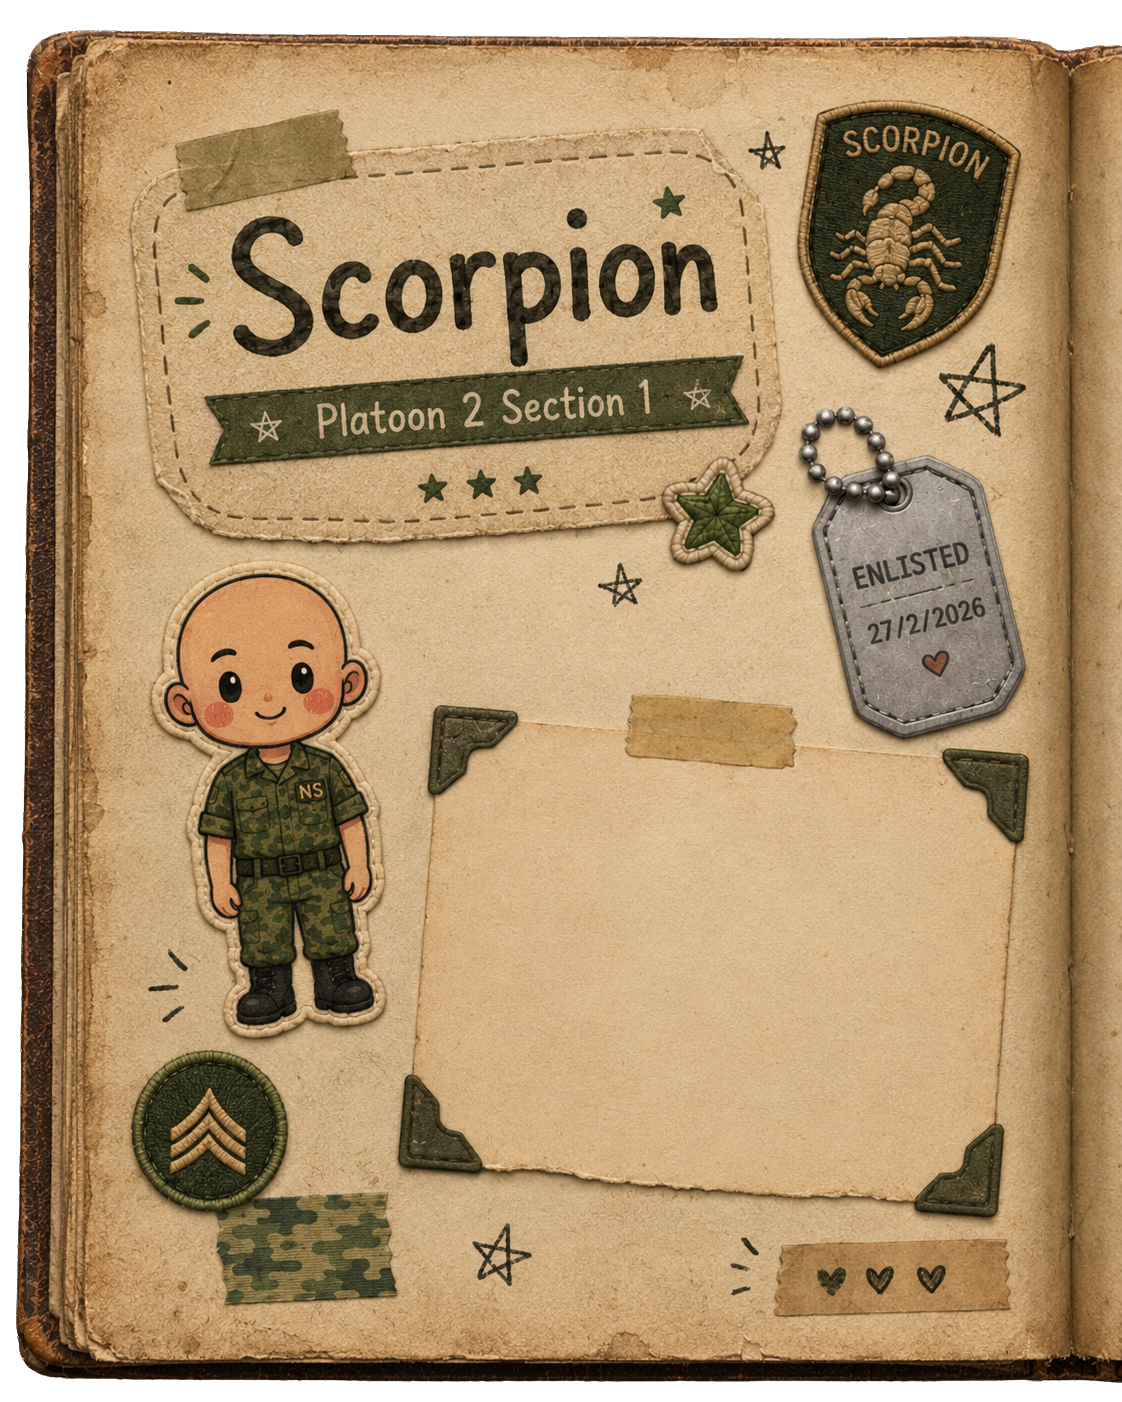
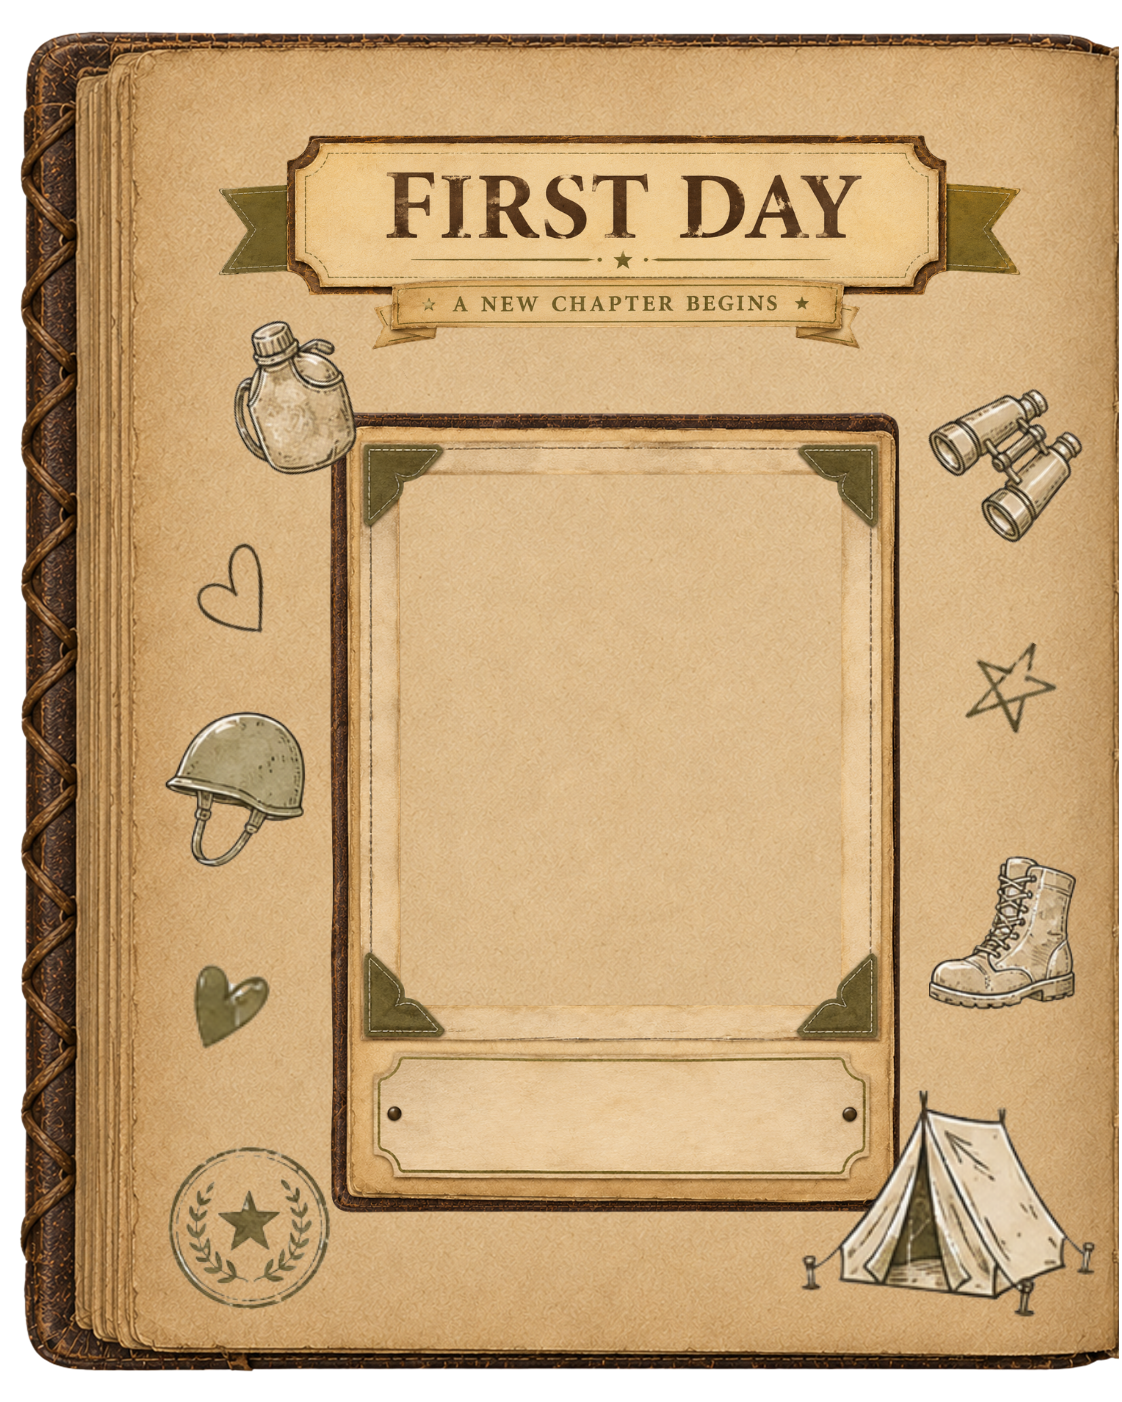
style: updated enlistment page

diff --git a/frontend/src/pages/JournalPage.jsx b/frontend/src/pages/JournalPage.jsx
@@ -342,97 +342,122 @@ const CleanRightPage = forwardRef(function CleanRightPage(_props, ref) {
   );
 });
 
-// ── ENLISTMENT LEFT — official welcome message on the parchment note card ──
-const EnlistmentLeft = forwardRef(function EnlistmentLeft({ commanderNote }, ref) {
-  const displayNote = commanderNote
-    || "To our newest recruit,\n\nThe next 2 months will be the hardest you've known. You'll be scared. You'll miss home, miss sleep, miss who you used to be.\n\nBe brave. We've got you.\n\n— Your Commanders";
-
+// ── ENLISTMENT LEFT — "FIRST DAY" photo page ──
+// Same setup as the BMT/clean pages: fills the page and nudged inward by
+// SPINE_NUDGE so the inner (right) edge meets the right page at the spine.
+const EnlistmentLeft = forwardRef(function EnlistmentLeft(_props, ref) {
   return (
     <div ref={ref} style={{ ...pageBase }}>
       <img
         src="/assets/journal/enlistment_left.png"
         alt="Enlistment Left"
-        style={{ position: "absolute", inset: 0, width: "100%", height: "100%", objectFit: "cover" }}
+        style={{ position: "absolute", top: 0, left: SPINE_NUDGE, width: "100%", height: "100%", objectFit: "cover" }}
       />
-      {/* parchment note card sits lower-right; corners ~ x:40%-95%, y:44%-88% */}
+
+      {/* FIRST-DAY PHOTO — box matched to the measured frame border (vertical
+          lines at x:30%/80%, top border y:30%, bottom border y:75.5%). Inset
+          ~0.5% to sit just inside the line. The photo fills it with
+          objectFit:cover, so any image auto-crops to the frame. */}
       <div style={{
         position: "absolute",
-        top: "54%",
-        left: "40%",
+        top: "34%",
+        left: "35.5%",
+        width: "40%",
+        height: "37.5%",
+        overflow: "hidden",
+        boxShadow: "1px 2px 6px #0005",
+      }}>
+        <img
+          src="/assets/journal/database/enlistment_left_picture.jpg"
+          alt="First meal in Tekong"
+          style={{ width: "100%", height: "100%", objectFit: "cover", display: "block" }}
+        />
+      </div>
+
+      {/* CAPTION box below the frame (measured ~ y:83.6%-86.4%, between x:30%-80%) */}
+      <div style={{
+        position: "absolute",
+        top: "76.8%",
+        left: "31%",
         width: "50%",
-        height: "39%",
-        transform: "rotate(5deg)",
+        height: "5%",
         display: "flex",
-        flexDirection: "column",
-        padding: "10px 12px",
+        alignItems: "center",
+        justifyContent: "center",
         boxSizing: "border-box",
       }}>
         <p style={{
-          ...pixel, fontSize: 12, color: "#7a3a2a",
-          margin: "0 0 4px", textTransform: "uppercase", letterSpacing: 1,
+          fontFamily: "'VT323', monospace",
+          fontSize: 19,
+          color: C.ink,
+          margin: 0,
+          textAlign: "center",
         }}>
-          ★ Official Message ★
+          First Meal in Tekong
         </p>
-        <div style={{ flex: 1, overflow: "hidden" }}>
-          <p style={{
-            fontFamily: "'VT323', monospace",
-            fontSize: 13,
-            color: C.ink,
-            lineHeight: "16px",
-            whiteSpace: "pre-wrap",
-            margin: 0,
-          }}>
-            {displayNote}
-          </p>
-        </div>
       </div>
     </div>
   );
 });
 
-// ── ENLISTMENT RIGHT — user's own day-1 note on the parchment note card ──
+// ── ENLISTMENT RIGHT — "LETTER TO MYSELF" written on enlistment day ──
 const EnlistmentRight = forwardRef(function EnlistmentRight({ userNote }, ref) {
+  // The soldier's own letter, written on day one — raw, scared, hopeful. Reads
+  // like a real first-day note: small fears, missing home, not knowing who
+  // you'll become. Kept human and a little unsure, not polished.
   const displayNote = userNote
-    || "Enlisted today, " + data.cover.enlisted + ".\n\nI honestly don't know what I'm in for. Saying bye to my family at the ferry terminal was harder than I thought.\n\nBut I'm here now. " + user.name + ", reporting for duty.\n\nLet's see who I become....";
+    || "Dear me,\n\nI'm writing this on my first night here and my hands won't stop shaking. I don't know why. Maybe it's the haircut, maybe it's the bed that isn't mine, maybe it's that mum cried at the ferry and I pretended I didn't see.\n\nI don't know anyone. I don't know what tomorrow is. Everyone keeps shouting and I keep getting it wrong and I already feel like I don't belong here.\n\nI'm scared. There, I said it. Scared of failing, scared of letting people down, scared of the next two years feeling this long every single day.\n\nBut I'm here. I showed up. That has to count for something.\n\nSo whoever you are when you read this — I hope you're proud of us. I hope you made some friends. I hope you stopped being so afraid.\n\nSee you on the other side.\n\n— Me, Day 1";
 
   return (
     <div ref={ref} style={{ ...pageBase }}>
       <img
         src="/assets/journal/enlistment_right.png"
         alt="Enlistment Right"
-        style={{ position: "absolute", inset: 0, width: "100%", height: "100%", objectFit: "cover" }}
+        /* Same setup as the BMT/clean pages: fills the page, nudged inward by
+           SPINE_NUDGE so the inner (left) edge meets the left page at the spine. */
+        style={{ position: "absolute", top: 0, left: -SPINE_NUDGE, width: "100%", height: "100%", objectFit: "cover" }}
       />
-      {/* parchment note card is centered; corners ~ x:28%-85%, y:38%-83% */}
+      {/* LETTER TO MYSELF writing area — fits the lined panel below the tab and
+          above the ENLISTMENT DATE box (interior ~ x:14%-76%, y:16%-74%). */}
       <div style={{
         position: "absolute",
-        top: "43%",
-        left: "35%",
-        width: "52%",
-        height: "41%",
-        transform: "rotate(2.5deg)",
-        display: "flex",
-        flexDirection: "column",
-        padding: "10px 12px",
+        top: "24%",
+        left: "18%",
+        width: "55%",
+        height: "56%",
+        overflow: "hidden",
         boxSizing: "border-box",
       }}>
         <p style={{
-          ...pixel, fontSize: 14, color: C.inkSoft,
-          margin: "0 0 4px", textTransform: "uppercase", letterSpacing: 1,
+          fontFamily: "'VT323', monospace",
+          fontSize: 13,
+          color: C.ink,
+          lineHeight: "15px",
+          whiteSpace: "pre-wrap",
+          margin: 0,
         }}>
-          What YOU wrote on Day 1
+          {displayNote}
         </p>
-        <div style={{ flex: 1, overflow: "hidden" }}>
-          <p style={{
-            fontFamily: "'VT323', monospace",
-            fontSize: 12,
-            color: C.ink,
-            lineHeight: "18px",
-            whiteSpace: "pre-wrap",
-            margin: 0,
-          }}>
-            {displayNote}
-          </p>
-        </div>
+      </div>
+      {/* ENLISTMENT DATE — written on the dotted line in the box at the bottom
+          (line ~ y:85.5%, centered ~ x:53%). */}
+      <div style={{
+        position: "absolute",
+        top: "77%",
+        left: "45%",
+        width: "30%",
+        textAlign: "center",
+        boxSizing: "border-box",
+      }}>
+        <p style={{
+          fontFamily: "'VT323', monospace",
+          fontSize: 15,
+          letterSpacing: 1,
+          color: C.ink,
+          margin: 0,
+        }}>
+          27 / 2 / 2026
+        </p>
       </div>
     </div>
   );
@@ -1016,9 +1041,7 @@ function JournalFlipbook({ onClose }) {
           {/* BMT chapter is now the first content spread (right after the cover) */}
           <BmtChapterLeft />
           <BmtChapterRight commanderNote={null} />
-          <CleanLeftPage />
-          <CleanRightPage />
-          <EnlistmentLeft commanderNote={null} />
+          <EnlistmentLeft />
           <EnlistmentRight userNote={null} />
           <FieldCampLeft userNote={null} />
           <FieldCampRight buddyNote={null} />
